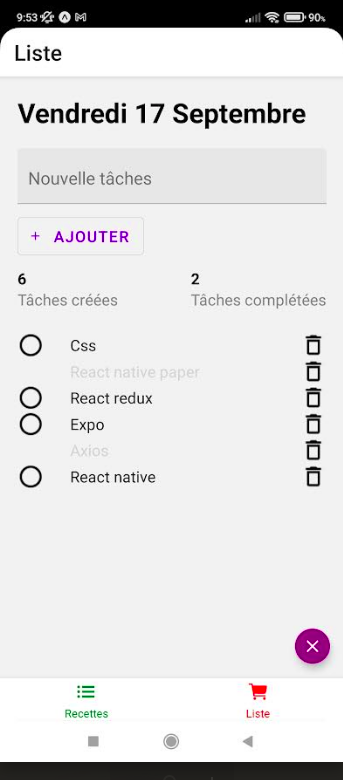
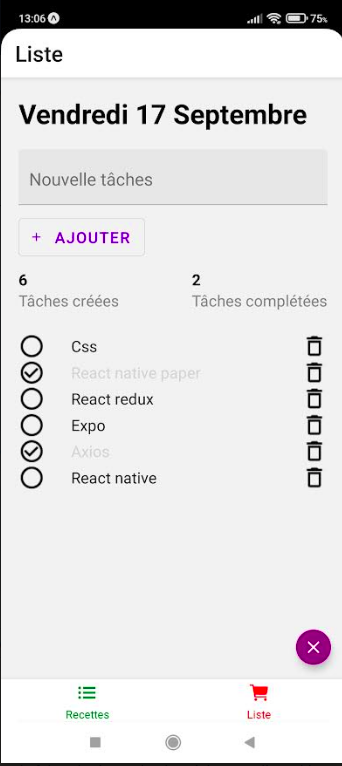
readme

diff --git a/src/components/TasksEpic/TaskTile.js b/src/components/TasksEpic/TaskTile.js
@@ -10,8 +10,8 @@ const TaskTile = ({ id, title, completed, onChangeStatus, onDeleteTask }) => {
             style={styles.icon}
             source={
               completed
-                ? require("../../../assets/icon_check.png")
-                : require("../../../assets/icon_circle.png")
+                ? require("../../../assets/icon_circle.png")
+                : require("../../../assets/icon_check.png")
             }
           />
           <Text

diff --git a/README.md b/README.md
@@ -17,7 +17,20 @@ Cette application à aussi une simple todolist.
 
 ### Page todolist
 
-![image1](/assets/image1.png) ![image1](/assets/image2.png) ![image1](/assets/image3.png) 
+Nous pouvons ajouter et suprimer des tâches mais également cocher si une tâche a été effectué.
+
+![image1](/assets/image1.png) ![image2](/assets/image2.png) ![image2](/assets/image3.png) 
 
 
+### Page liste de recette et detail d'une recette
 
+Nous arrivons sur la liste de recette (appel à l'API) et lorsque nous cliquons sur une recette, nous aurons le détail de la recette (ingrédients).
+
+![image1](/assets/recette1.png) ![image2](/assets/recette2.png)
+
+## Conclusion
+
+Pour cloner le repo git clone https://github.com/gwen31/native-app-recette
+pour lancer le projet:
+
+    il faut installer **expo** et utiliser la commande **expo start** ou **npm start**
